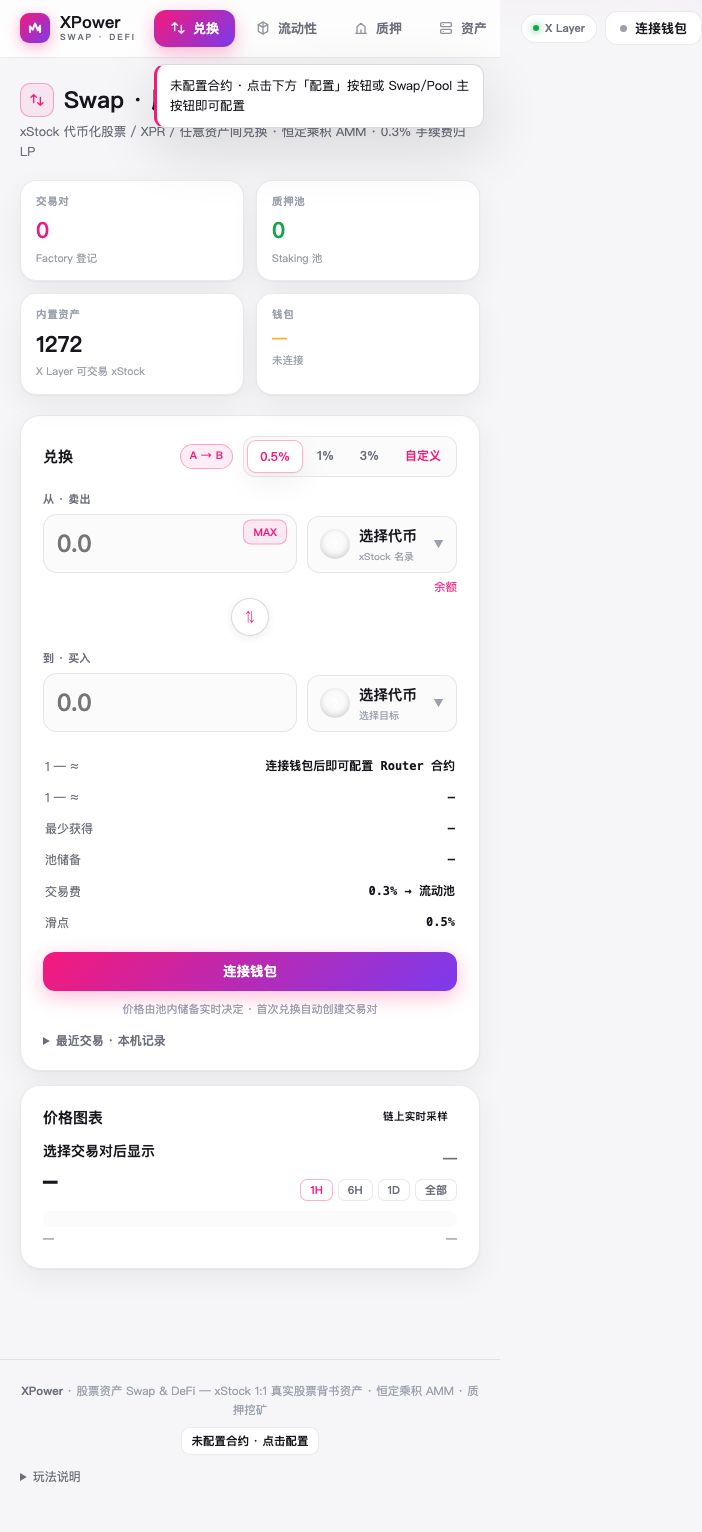
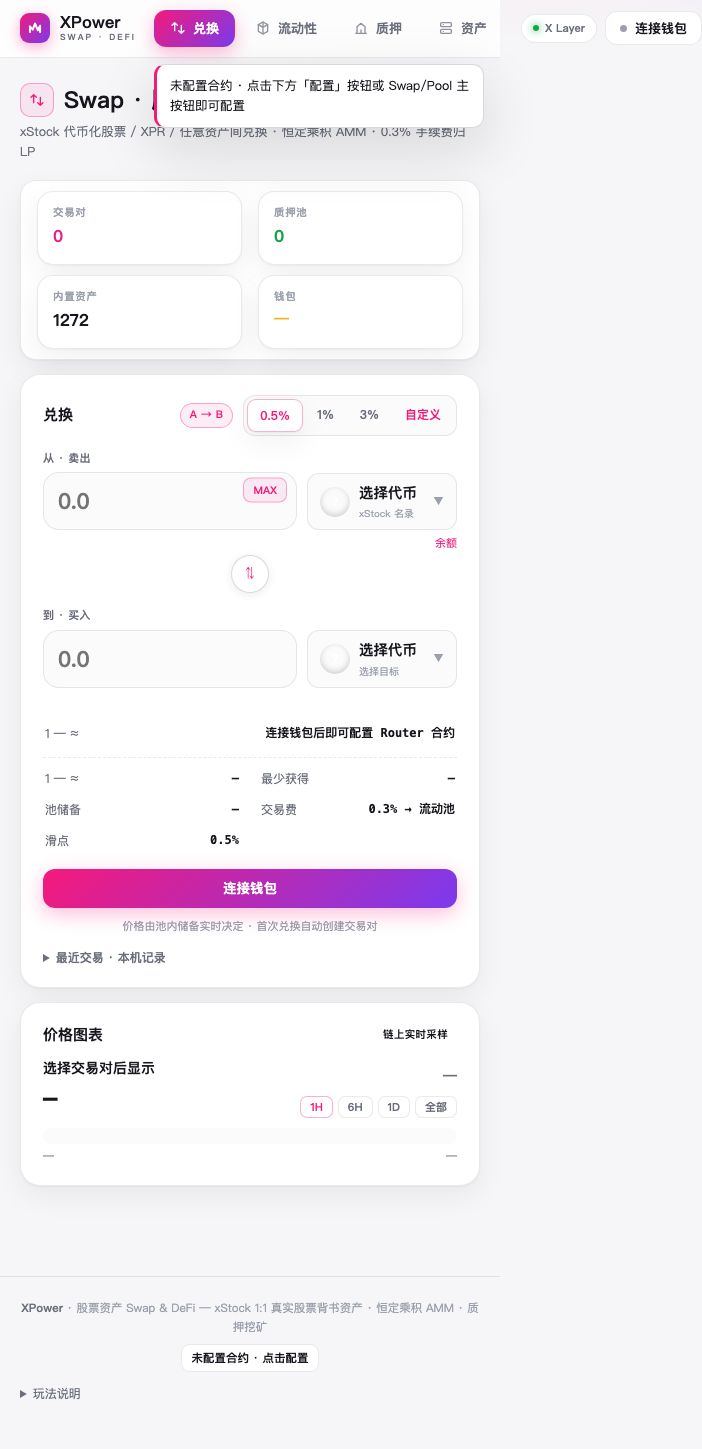
体验改进：Header状态横幅(连接/配置/就绪实时状态)、资产页XPR复制地址+添加代币引导、Farm池卡片矿池XPR可分余额+注入面板可用余额、发布改--dir整包(logo随包上传修复裂图)

diff --git a/XPower Swap DApp.html b/XPower Swap DApp.html
@@ -242,6 +242,7 @@ details ol{padding-left:18px;margin-top:8px;color:var(--dim);font-size:12px;line
     <span>当前网络不是 X Layer（chainId 196）—— 兑换 / 添加流动性 / 质押均无法正常提交，请切换网络</span>
   </div>
   <div id="toasts"></div>
+  <div id="statusBar" style="display:none;align-items:center;justify-content:center;gap:8px;font-size:13px;font-weight:600;padding:8px 16px;border-bottom:1px solid transparent"></div>
 
 <main>
   <!-- ===== Swap ===== -->
@@ -375,6 +376,7 @@ details ol{padding-left:18px;margin-top:8px;color:var(--dim);font-size:12px;line
       </div>
       <div style="display:flex;gap:10px;flex-wrap:wrap;margin-bottom:10px">
         <input id="poolFund" type="number" placeholder="注入奖励 XPR（转入矿池）" style="flex:2;min-width:240px">
+        <span id="fundXprAvail" style="font-size:11.5px;color:var(--faint);align-self:center">可用 XPR：—</span>
         <button class="btn" onclick="fundFarm()">注入奖励</button>
       </div>
       <div class="info-row" style="border-top:1px solid var(--line);padding-top:10px">
@@ -1858,6 +1860,7 @@ async function renderFarm(){
           <div class="m"><div class="k">总质押</div><div class="v">${fmt(fromWei(p.total,p.dec))} ${esc(p.sym)}</div></div>
           <div class="m"><div class="k">我的质押</div><div class="v" id="myStk${p.pid}">—</div></div>
           <div class="m"><div class="k">待领取</div><div class="v" style="color:var(--gold)" id="pend${p.pid}">—</div></div>
+          <div class="m" style="grid-column:1/4"><div class="k">矿池奖励 XPR（可分余额）</div><div class="v" id="poolXpr${p.pid}">…</div></div>
         </div>
         <div class="poolacts">
           <input id="stkAmt${p.pid}" type="number" min="0" placeholder="质押数量">
@@ -1879,6 +1882,13 @@ async function renderFarm(){
           if(e1)e1.textContent=fmt(fromWei(u[0],pg.dec))+" "+pg.sym;
           if(e2)e2.textContent=fmt(fromWei(pend,18))+" XPR";
         }
+        if(cfg.xstork){
+          const poolXprBal=await new ethers.Contract(cfg.xstork,ERC20_ABI,p).balanceOf(cfg.staking);
+          for(const pg of data){
+            const ex=$("poolXpr"+pg.pid);
+            if(ex)ex.textContent=fmt(fromWei(poolXprBal,18))+" XPR"+(poolXprBal<=0n?" · 尚未注入，用下方「注入奖励」转入":"");
+          }
+        }
       }).catch(()=>{});
     }
     withRPC(async p=>{
@@ -1886,6 +1896,12 @@ async function renderFarm(){
       const own=await st.owner();
       if(walletAddr&&own.toLowerCase()===walletAddr){
         $("farmAdmin").style.display="block";
+        const fa=$("fundXprAvail");
+        if(fa&&cfg.xstork){
+          try{const xb=await withRPC(async pr=>new ethers.Contract(cfg.xstork,ERC20_ABI,pr).balanceOf(walletAddr));
+            fa.textContent="可用 XPR："+fmt(fromWei(xb,18));fa.style.color="var(--gold)";
+          }catch(e){fa.textContent="可用 XPR：读取失败";}
+        }
         const n=configuredAssets().length;
         const el=$("recPoolInfo");
         if(el)el.textContent="已配置地址: "+n+" 个 · 将逐个创建质押池（奖励速率取上方输入）"+(n?" · 建议先为池注入 XPR 奖励":" · 需先到「资产」页粘贴 xStock 合约地址");
@@ -2019,6 +2035,9 @@ async function createRecommendedPools(){
 }
 
 /* ============ 资产 ============ */
+function copyAddr(a){
+  try{navigator.clipboard.writeText(a);toast("合约地址已复制： "+a,"ok");}catch(e){toast("复制失败，请手动复制： "+a,"err");}
+}
 async function renderAssets(){
   if(!walletAddr){$("assetStats").innerHTML="";$("balList").innerHTML=`<div class="empty" style="grid-column:1/-1"><div class="big">◉</div>连接钱包后查看余额</div>`;return;}
   const balEl=$("balList");
@@ -2079,6 +2098,7 @@ async function renderAssets(){
         ${logoSvg(r.sym,"",r.logo)}
         <div class="nm"><b>${esc(r.sym)}</b><span>${esc(r.name||"")}${r.addr?" · "+shortAddr(r.addr):""}</span></div>
         <div class="val">${fmt(fromWei(r.bal,r.dec))}<span>${esc(r.sym)}</span></div>
+        ${r.addr&&r.sym==="XPR"?`<button class="btn ghost sm" style="grid-column:1/4;margin-top:6px" onclick="copyAddr('${r.addr}')">${r.bal>0n?"复制合约地址":"复制地址 · 钱包若未显示 XPR 请手动添加代币"}</button>`:""}
       </div>`).join("")
     :`<div class="empty" style="grid-column:1/-1"><div class="big">◉</div>钱包中暂无资产 · 可在「名录」中选择交易或到 Pool 添加流动性</div>`;
     $("assetStats").innerHTML=`
@@ -2182,7 +2202,26 @@ function refreshView(){
   if(curView==="assets"){renderAssetList();renderAssets();}
   renderCfgInfo();
 }
-function refreshAll(){refreshView();if(curView==="swap")quoteSwap();}
+function refreshAll(){refreshView();if(curView==="swap")quoteSwap();updateStatusBar();}
+async function updateStatusBar(){
+  const el=$("statusBar");if(!el)return;
+  try{
+    if(!walletAddr){el.style.display="flex";el.style.background="#f3f4f6";el.style.color="#4b5563";el.style.borderColor="transparent";el.innerHTML='<span>连接钱包后查看资产余额、添加流动性并参与质押挖矿</span>';return;}
+    if(!chainOk){el.style.display="none";return;}
+    if(needCfg()){el.style.display="flex";el.style.background="#fff7e6";el.style.color="#b45309";el.style.borderColor="#fcd34d";el.innerHTML='<span>合约尚未部署 · <b style="cursor:pointer;text-decoration:underline" onclick="openCfg()">点此一键起盘</b>（部署 4 合约 → 组 LP → 质押池）</span>';return;}
+    let pairs=0,pools=0;
+    try{
+      await withRPC(async p=>{
+        const f=new ethers.Contract(cfg.factory,FACTORY_ABI,p);
+        pairs=Number(await f.allPairsLength());
+        const st=new ethers.Contract(cfg.staking,STAKING_ABI,p);
+        pools=Number(await st.poolLength());
+      });
+    }catch(e){}
+    el.style.display="flex";el.style.background="#ecfdf5";el.style.color="#047857";el.style.borderColor="#a7f3d0";
+    el.innerHTML='<span>合约已就绪 · '+pairs+' 交易对 · '+pools+' 质押池 · <b style="cursor:pointer;text-decoration:underline" onclick="openCfg()">查看配置</b></span>';
+  }catch(e){el.style.display="none";}
+}
 function renderCfgInfo(){
   const el=$("cfgInfo");if(!el)return;
   el.innerHTML=needCfg()
@@ -2219,6 +2258,7 @@ window.addEventListener("load",()=>{
 $("nav").innerHTML=[["swap",'<svg width="16" height="16" viewBox="0 0 24 24" fill="none" stroke="currentColor" stroke-width="2" stroke-linecap="round" stroke-linejoin="round"><path d="M7 16V4M7 4L3 8M7 4L11 8"/><path d="M17 8V20M17 20L13 16M17 20L21 16"/></svg>',"兑换"],["pool",'<svg width="16" height="16" viewBox="0 0 24 24" fill="none" stroke="currentColor" stroke-width="2" stroke-linecap="round" stroke-linejoin="round"><path d="M12 3l7 4v10l-7 4-7-4V7z"/><path d="M12 3v18M5 7l7 4 7-4"/></svg>',"流动性"],["farm",'<svg width="16" height="16" viewBox="0 0 24 24" fill="none" stroke="currentColor" stroke-width="2" stroke-linecap="round" stroke-linejoin="round"><path d="M4 20h16M6 20V10l6-5 6 5v10M12 15v5"/></svg>',"质押"],["assets",'<svg width="16" height="16" viewBox="0 0 24 24" fill="none" stroke="currentColor" stroke-width="2" stroke-linecap="round" stroke-linejoin="round"><rect x="4" y="4" width="16" height="6" rx="1.5"/><rect x="4" y="14" width="16" height="6" rx="1.5"/><path d="M8 7h.01M8 17h.01"/></svg>',"资产"]].map(([v,ic,zh])=>`<div class="n" data-v="${v}" onclick="go('${v}')">${ic}${zh}</div>`).join("");
   route();
   window.addEventListener("hashchange",route);
+  updateStatusBar();
   if(needCfg())toast("未配置合约 · 点击下方「配置」按钮或 Swap/Pool 主按钮即可配置","warn");
   setTimeout(samplePrice,1500);
   setInterval(()=>{if(curView==="swap")samplePrice();},20000);
